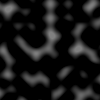
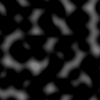
More fixes to the movement logic regarding slopes

diff --git a/src/physics/movement_collision.rs b/src/physics/movement_collision.rs
@@ -2,6 +2,7 @@ use crate::entity;
 use crate::game;
 use crate::types::*;
 use crate::physics::collision_3d::*;
+use crate::types::*;
 
 use quadtree as qt;
 
@@ -91,46 +92,90 @@ fn resolve_world_collision_entity(entity: &mut entity::Entity, world: &[Triangle
                     entity.physics.pos.y += resolve_vec.y
                 }
 
-                entity.physics.pos.z += resolve_vec.z;
+                if resolve_vec.z.abs() > resolve_threshold {
+                    entity.physics.pos.z += resolve_vec.z;
+                }
 
                 entity.physics.falling = false;
                 entity.physics.velocity.z = 0.0;
             },
             _ => {
 
-
-
-                let mut set_falling = true;
                 // If not falling and close to ground, snap to ground, to avoid jitter
                 if !entity.physics.falling {
-                    let p = entity.physics.pos;
 
-                    let mut max_z = 0.0;
-                    for triangle in world {
-                        let projection  = triangle.project_point_z_axis(&p);
+                    // TODO only have 1 movement hitbox for each entity
+                    for hitbox in &entity.hitboxes {
 
-                        // close to gorund maybe don't fall
-                        if projection.z < 0.01 {
-                            let inside = triangle.inside(&projection);
+                        let max_x = hitbox.max_x();
+                        let max_y = hitbox.max_y();
+                        let min_x = hitbox.min_x();
+                        let min_y = hitbox.min_y();
 
-                            if inside {
-                                set_falling = false;
-                                // to avoid jitter don't snap when too close to ground
-                                if projection.z > 0.001 {
-                                    max_z = f32::max(max_z, projection.z);
-                                }
+
+                        let mut fall_or_slide_res = FallOrSlide::Fall;
+
+                        fall_or_slide(&(entity.physics.pos + v3::new(max_x, max_y,0.0)), &world, &mut fall_or_slide_res);
+                        fall_or_slide(&(entity.physics.pos + v3::new(min_x, max_y,0.0)), &world, &mut fall_or_slide_res);
+                        fall_or_slide(&(entity.physics.pos + v3::new(max_x, min_y,0.0)), &world, &mut fall_or_slide_res);
+                        fall_or_slide(&(entity.physics.pos + v3::new(min_x, min_y,0.0)), &world, &mut fall_or_slide_res);
+
+                        match fall_or_slide_res {
+                            FallOrSlide::Fall => {
+                                entity.physics.falling = true;
+                            },
+                            FallOrSlide::Slide(z_dist) => {
+                                entity.physics.pos.z -= z_dist;
                             }
-                        }
+                        };
                     }
-
-                    if !set_falling {
-                        entity.physics.pos.z -= max_z;
-                    }
-
                 }
-
-                entity.physics.falling = set_falling;
             }
         };
     }
+}
+
+enum FallOrSlide {
+    Fall,
+    Slide(f32)
+}
+
+fn fall_or_slide(point: &v3, world: &[Triangle], res: &mut FallOrSlide) {
+    let mut set_falling = true;
+    // If not falling and close to ground, snap to ground, to avoid jitter
+
+    let mut max_z = 0.0;
+    for triangle in world {
+        let projection  = triangle.project_point_z_axis(&point);
+
+        let inside = triangle.inside(&projection);
+        let z_diff = point.z - projection.z;
+
+        // close to gorund maybe don't fall
+        // play with this fall heigt
+        if inside {
+            println!("InSide z_diff {:?}", z_diff);
+            if z_diff < 0.3 {
+
+                set_falling = false;
+                // to avoid jitter don't snap when too close to ground
+                if z_diff > 0.01 {
+                    max_z = f32::max(max_z, z_diff);
+                }
+            }
+        }
+    }
+
+
+    if !set_falling {
+        let mut new_dist = max_z;
+        match res {
+            FallOrSlide::Slide(z_dist) => {
+                new_dist = f32::min(*z_dist, max_z);
+            },
+            _ => {}
+        }
+        *res = FallOrSlide::Slide(new_dist);
+    }
+
 }

diff --git a/src/game/scene.rs b/src/game/scene.rs
@@ -275,12 +275,19 @@ impl Scene {
     pub fn update_animations(&mut self, delta: f32) {
 
         self.entities.player.update_animations(delta);
+        /*
         println!("falling={} - player animation {:?} next animation {}",
-                 self.entities.player.physics.falling,
-                 self.entities.player.animation_player.as_ref().unwrap().current_animation_name(),
-                 self.entities.player.animation_player.as_ref().unwrap().next_animation_name()
-        );
-
+        self.entities.player.physics.falling,
+        self.entities.player.animation_player.as_ref().unwrap().current_animation_name(),
+        self.entities.player.animation_player.as_ref().unwrap().next_animation_name()
+    );
+         */
+        if self.entities.player.physics.falling {
+            println!("falling={} - player Pos={:?}",
+                     self.entities.player.physics.falling,
+                     self.entities.player.physics.pos,
+            );
+        }
         for enemy in self.entities.enemies.values_mut() {
             enemy.update_animations(delta);
         }

diff --git a/src/main.rs b/src/main.rs
@@ -170,7 +170,9 @@ fn run() -> Result<(), failure::Error> {
 
     'main: loop{
         ctx.update_delta();
-        let delta = ctx.get_delta_time();
+        // For debugging always set delta to 0.016 (60fps) even when having long breaks in visualStudio
+        //let delta = ctx.get_delta_time();
+        let delta = 0.016;
         ctx.handle_inputs();
 
 

diff --git a/src/render_gl/generated_mesh.rs b/src/render_gl/generated_mesh.rs
@@ -93,7 +93,7 @@ fn pos_for_grid(noise_data: &Vec::<v3>, h: f32, w: f32) -> Vec::<v3> {
 
     let mut pos_data = Vec::new();
     for sample in noise_data {
-        pos_data.push(v3::new( sample.x - (w/2.0), sample.y - (h/2.0), sample.z));
+        pos_data.push(v3::new( sample.x - (w/2.0), sample.y - (h/2.0), sample.z * 3.0));
     }
 
     pos_data
